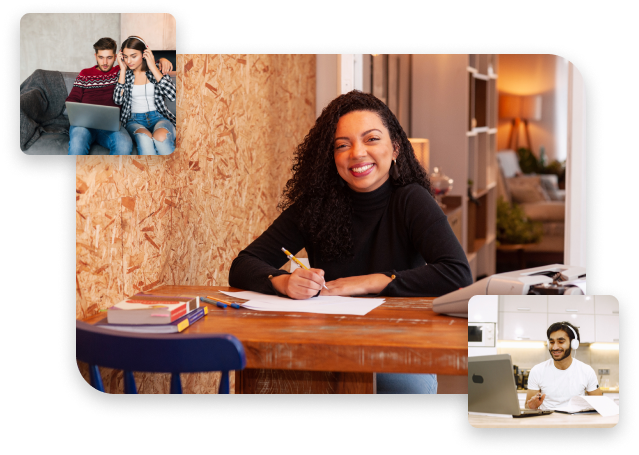
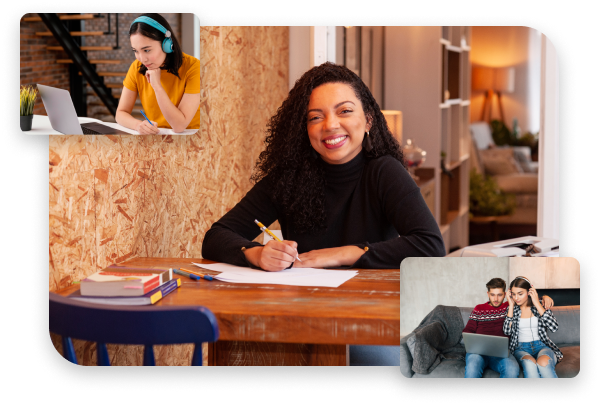
versão apresentação

diff --git a/css/main.min.css b/css/main.min.css
@@ -1,2 +1,2 @@
-body{font-family:'Poppins', sans-serif;background-color:#fdfdfd}.color-main{color:#EF9E48}.color-yellow-dark{color:#a56f39}.back-gray-light{background-color:#f5f5f5 !important}.mt-40{margin-top:40px}.mb-40{margin-bottom:40px}.mt-100{margin-top:100px}.font-slim{font-weight:300}.padding-custom{padding:75px 0}.icon-custom{padding:10px 15px;background-color:transparent;color:#EF9E48;border:1px #EF9E48 solid;border-radius:50px;cursor:pointer;margin-right:15px}.border-flag{border:#FCF2E8 4px solid;border-radius:100%}.back-yellow-light{background-color:#FCF2E8;border-radius:10px}.back-yellow-light-100{background-color:#FBCE82;border-radius:10px}.bg-icon{background:#FBCE82;border-radius:15px;display:inline-block;padding:20px}.bg-icon-5{background:#FBCE82;border-radius:15px;padding:5px}.text-justify{text-align:justify;text-justify:inter-word}.shadow{-webkit-box-shadow:0 0.5rem 1rem rgba(255,155,0,0.15) !important;box-shadow:0 0.5rem 1rem rgba(255,155,0,0.15) !important}.btn{border-radius:25px;padding:0.9rem 2rem}.btn-light{-webkit-transition:all .5s;transition:all .5s}.btn-light:hover{border-color:#EF9E48;background-color:#EF9E48;color:#fdfdfd}.dropdown-menu{-webkit-box-shadow:0 0.5rem 1rem rgba(255,155,0,0.15) !important;box-shadow:0 0.5rem 1rem rgba(255,155,0,0.15) !important}.show{border-radius:13px;border:none}.show a:hover{background-color:#FCF2E8;border-radius:13px}.mr-2{margin-right:0.5rem}.accordion-button{background-color:#fdfdfd}.accordion-item{margin-bottom:15px;border:none}.accordion-button:not(.collapsed){color:#fdfdfd;background-color:#8B9DB0}:root{--swiper-theme-color: #EF9E48}.swiper-container-horizontal>.swiper-pagination-bullets,.swiper-pagination-custom,.swiper-pagination-fraction{bottom:10%}.swiper-pagination-bullet-active{width:17px}.swiper-pagination-clickable{z-index:-1}.swiper-pagination{position:absolute;text-align:end;-webkit-transition:.3s opacity;transition:.3s opacity;-webkit-transform:translate3d(0, 0, 0);transform:translate3d(0, 0, 0);z-index:10}.swiper-container-horizontal>.swiper-pagination-bullets,.swiper-pagination-custom,.swiper-pagination-fraction{z-index:-2}.swiper-button-next,.swiper-container-rtl .swiper-button-prev{bottom:10%;right:auto;left:40px}.swiper-button-prev,.swiper-container-rtl .swiper-button-next{bottom:10%}.nav-tabs .nav-link:focus,.nav-tabs .nav-link:hover{border-color:none;isolation:isolate;border-bottom:#EF9E48 2px solid;-webkit-transition:.3s;transition:.3s}.nav-tabs .nav-item.show .nav-link,.nav-tabs .nav-link.active{color:#a56f39;background-color:#FBCE82;border-color:#dee2e6}.nav-tabs .nav-link:focus,.nav-tabs .nav-link:hover{color:#a56f39;border-color:none;isolation:isolate;border-bottom:#EF9E48 2px solid;-webkit-transition:.3s;transition:.3s}.nav-tabs .nav-link{background:0 0;border:1px solid transparent;border-top-left-radius:.25rem;border-top-right-radius:.25rem;background-color:#f5f5f5;border-radius:12px;-webkit-box-shadow:0px 10px 30px #eaeef6;box-shadow:0px 10px 30px #eaeef6;opacity:1;-webkit-transition:all .3s;transition:all .3s;-webkit-filter:grayscale(0%);filter:grayscale(0%);transition:all .3s;padding:11px;margin-right:12px}.nav-tabs{border-bottom:none}.nav-link{color:#151414}.focus-in-expand{-webkit-animation:focus-in-expand 0.8s cubic-bezier(0.25, 0.46, 0.45, 0.94) both;animation:focus-in-expand 0.8s cubic-bezier(0.25, 0.46, 0.45, 0.94) both}@-webkit-keyframes focus-in-expand{0%{letter-spacing:-0.5em;-webkit-filter:blur(12px);filter:blur(12px);opacity:0}100%{-webkit-filter:blur(0px);filter:blur(0px);opacity:1}}@keyframes focus-in-expand{0%{letter-spacing:-0.5em;-webkit-filter:blur(12px);filter:blur(12px);opacity:0}100%{-webkit-filter:blur(0px);filter:blur(0px);opacity:1}}.img-lupa{position:absolute;height:200px;left:37%;top:35%}.element-animation{animation:animationFrames linear 8s;animation-iteration-count:infinite;transform-origin:50% 50%;-webkit-animation:animationFrames linear 8s;-webkit-animation-iteration-count:infinite;-webkit-transform-origin:50% 50%;-moz-animation:animationFrames linear 8s;-moz-animation-iteration-count:infinite;-moz-transform-origin:50% 50%;-o-animation:animationFrames linear 8s;-o-animation-iteration-count:infinite;-o-transform-origin:50% 50%;-ms-animation:animationFrames linear 8s;-ms-animation-iteration-count:infinite;-ms-transform-origin:50% 50%}@keyframes animationFrames{0%{-webkit-transform:translate(0px, 0px);transform:translate(0px, 0px)}32%{-webkit-transform:translate(-88px, -145px);transform:translate(-88px, -145px)}69%{-webkit-transform:translate(-147px, -69px);transform:translate(-147px, -69px)}100%{-webkit-transform:translate(0px, -2px);transform:translate(0px, -2px)}}@-webkit-keyframes animationFrames{0%{-webkit-transform:translate(0px, 0px)}32%{-webkit-transform:translate(-88px, -145px)}69%{-webkit-transform:translate(-147px, -69px)}100%{-webkit-transform:translate(0px, -2px)}}.square{position:absolute;max-width:70%;width:100%;height:100vh;left:0px;top:0px;background:linear-gradient(106.43deg, #FFDC6B -1.4%, #FFF4CB 100.87%);border-radius:0 0 55px 0;z-index:-1}.s-hero{padding:90px 0px 0px 0px}.s-hero .img-hero{width:90%;padding:37px}.s-hero h1{width:100%;max-width:501px;font-family:Poppins;font-weight:bold;font-size:55px;line-height:100%;margin:0}.s-hero h1 span{font-weight:700;-webkit-text-stroke-width:1px;-webkit-text-stroke-color:#000;font-size:1.2em;color:transparent}.s-hero p{width:100%;font-size:1.1rem}.s-hero h2{position:relative;left:0;display:-webkit-box;display:-ms-flexbox;display:flex;-webkit-box-align:center;-ms-flex-align:center;align-items:center;-webkit-box-pack:end;-ms-flex-pack:end;justify-content:flex-end}.s-hero h2 span{font-weight:700;-webkit-text-stroke-width:1px;-webkit-text-stroke-color:#000;font-size:1.5em;color:transparent}.s-hero i{padding:10px 15px;background-color:#f9c271;border-radius:10px;margin-right:15px}.text-outline{position:relative;left:0;display:-webkit-box;display:-ms-flexbox;display:flex;-webkit-box-align:center;-ms-flex-align:center;align-items:center;-webkit-box-pack:end;-ms-flex-pack:end;justify-content:flex-end;font-weight:700;-webkit-text-stroke-width:1.2px;-webkit-text-stroke-color:#151414;font-size:3.5rem;color:transparent;opacity:0.07;line-height:60px;margin-top:-66px;display:flex;align-items:center;-webkit-box-pack:center;-ms-flex-pack:center;justify-content:center}.img-chat{position:absolute;height:200px;position:absolute;height:200px;left:37%;top:10%}.s-about{padding:100px 0}.s-about h5,.s-about h2{color:#EF9E48}.s-about h4{margin-bottom:60px}.s-about img{width:70px;margin-top:-50px}.s-about a{text-decoration:none;color:#EF9E48;-webkit-transition:all .3s;transition:all .3s}.s-about a:hover{color:#8B9DB0}.card{height:225px;background:#f5f5f5;border:1px solid #EDEEF0;-webkit-box-sizing:border-box;box-sizing:border-box;border-radius:25px;-webkit-transition:all .3s;transition:all .3s}.card:hover{background:linear-gradient(142deg, #FFDC6B -1.4%, #FFF4CB 100.87%);color:#a56f39;-webkit-transform:scale(1.08);transform:scale(1.08)}.s-who-am-i{background-color:#8B9DB0;z-index:-1;padding:100px 0;border-radius:20px;margin:12px}.s-who-am-i h2{color:#fdfdfd}.s-who-am-i p{max-width:800px;width:100%;margin:0 auto;line-height:1.4375rem;color:#fdfdfd}.s-who-am-i a{color:#FFDC6B;text-decoration:none}.s-who-am-i a:hover{color:#a56f39}.s-values{padding:100px 0}.s-values i{color:#EF9E48;border:1px solid #EF9E48;font-weight:700;-webkit-transition:all .5s;transition:all .5s}.s-values i:hover{background-color:#EF9E48;color:#FCF2E8;-webkit-transform:scale(1.5);transform:scale(1.5)}.s-values a{text-decoration:none;color:#151414}.s-values .icon-custom{background-color:transparent}.s-values p{margin-bottom:0}.s-values p span strong{color:#EF9E48;font-size:26px}.s-values img{margin-top:5px}.s-values .card-price{height:672px}.card-price{background-color:#fff;border-radius:10px;padding:15px;border:1px solid #EDEEF0}.s-values-pattern{margin-top:-25px !important;position:absolute;width:163px;left:30px}.s-faq{padding:100px 0;background-color:#f5f5f5}.s-news{padding:40px 0 79px}.s-news button{height:44px;border-radius:0 25px 25px 0 !important;background-color:#FFDC6B;border:none}.s-news input{border-radius:25px 0px 0px 25px;height:44px}.s-news .row{width:80%;margin:auto;background-color:#f5f5f5;background:linear-gradient(142deg, #FFDC6B -1.4%, #FFF4CB 100.87%);padding:20px;border-radius:10px}.s-news-img{z-index:-2;margin-top:-54px;position:absolute;width:163px;right:30px}footer{background-color:#151414;padding:3.9rem 0 2rem 0}footer i,footer h3{color:#fdfdfd}footer p{max-width:350px;color:#8B9DB0}footer ul{padding:0}footer ul li{list-style-type:none;padding:5px 0}footer a{color:#8B9DB0;text-decoration:none;-webkit-transition:all .3s;transition:all .3s}footer a:hover{color:#FBCE82}footer main{border-bottom:1px solid rgba(255,255,255,0.2);padding-bottom:2.2rem}.s-espanhol{padding:70px 0}.s-espanhol a{text-decoration:none;color:#151414}.s-espanhol b{color:#EF9E48}.s-espanhol i{font-size:25px;-webkit-transition:all .5s;transition:all .5s}.s-espanhol i:hover{background-color:#EF9E48;color:#fdfdfd}.s-espanhol h1{color:#EF9E48;font-size:3rem}.s-espanhol h1 span{font-weight:700;-webkit-text-stroke-width:1px;-webkit-text-stroke-color:#EF9E48;color:transparent;line-height:60px}.s-espanhol h6{color:#EF9E48;font-size:4.5rem}.s-espanhol h6 span{font-weight:700;-webkit-text-stroke-width:1.2px;-webkit-text-stroke-color:#151414;font-size:1.1em;color:transparent;opacity:0.1;line-height:60px;margin-top:-88px;display:-webkit-box;display:-ms-flexbox;display:flex;-webkit-box-align:center;-ms-flex-align:center;align-items:center;-webkit-box-pack:center;-ms-flex-pack:center;justify-content:center}.s-espanhol h3 span,.s-espanhol h2 span{font-weight:700;font-size:1.2em;color:#EF9E48;line-height:60px;margin:0}.s-espanhol .square{position:absolute;max-width:100%;background:-webkit-gradient(linear, left top, left bottom, from(#FFDC6B), to(#fdfdfd));background:linear-gradient(180deg, #FFDC6B 0%, #fdfdfd 100%);width:100%;height:100vh;left:0px;top:0px}.s-espanhol .card-price{width:50%;margin:0 auto}header{background-color:transparent;z-index:2;position:fixed;top:0;-webkit-transition:all .5s;transition:all .5s}.navbar{padding-top:1.5rem;padding-bottom:1.5rem;-webkit-transform:all 1s;transform:all 1s}.navbar .navbar-nav .nav-link{color:#151414}.navbar .navbar-nav .nav-link:hover{color:#EF9E48}.navbar .navbar-nav .nav-link:focus{color:#EF9E48}nav ul{list-style:none;text-align:center}nav ul li{display:inline-block;margin:0 15px}nav ul li a{-webkit-transition:all .5s;transition:all .5s}nav ul li a:hover{color:#555}.btn-invite{background-color:transparent;border:1px solid #EF9E48;color:#EF9E48;border-radius:25px;-webkit-transition:all .5s;transition:all .5s}.btn-invite:hover{-webkit-transform:scale(1.05);transform:scale(1.05);background-color:#EF9E48}.btn-invite a{color:#EF9E48;font-weight:500}.btn-invite a:hover{color:#fdfdfd}.hamburguer{margin-bottom:5px;width:30px;height:2px;background:#EF9E48;position:absolute;top:50%;left:50%;-webkit-transform:translate(-50%, -50%);transform:translate(-50%, -50%);-webkit-transition:.5s;transition:.5s}.hamburguer:before{content:'';position:absolute;width:30px;height:2px;background:#EF9E48;-webkit-box-shadow:0 2px 5px 0,0,0,0.2;box-shadow:0 2px 5px 0,0,0,0.2;-webkit-transition:.5s;transition:.5s;left:0}.hamburguer{margin-bottom:5px;width:30px;height:2px;background:#EF9E48;position:absolute;top:50%;left:50%;-webkit-transform:translate(-50%, -50%);transform:translate(-50%, -50%);-webkit-transition:.5s;transition:.5s}.hamburguer:after{content:'';position:absolute;width:30px;height:2px;background:#EF9E48;-webkit-box-shadow:0 2px 5px 0,0,0,0.2;box-shadow:0 2px 5px 0,0,0,0.2;-webkit-transition:.5s;transition:.5s;left:0;top:8px}.hamburguer:before{top:-8px}.icon{position:absolute;-webkit-transform:translate(-50%, -50%);transform:translate(-50%, -50%);width:47px;height:34px;border:none;cursor:pointer}.icon.active .hamburguer{background:rgba(0,0,0,0)}.icon.active .hamburguer:before{top:0;-webkit-transform:rotate(45deg);transform:rotate(45deg)}.icon.active .hamburguer:after{top:0;-webkit-transform:rotate(135deg);transform:rotate(135deg)}.sticky{background-color:rgba(255,255,255,0.63) !important;-webkit-backdrop-filter:blur(20px);backdrop-filter:blur(20px);-webkit-box-shadow:0 0.125rem 0.25rem rgba(0,0,0,0.075) !important;box-shadow:0 0.125rem 0.25rem rgba(0,0,0,0.075) !important;-webkit-transition:all 1s;transition:all 1s;z-index:50;padding-top:0.75rem;padding-bottom:0.75rem}@media (max-width: 1200px){.img-chat{top:3%;left:28%}}@media (max-width: 991px){.img-chat{display:none}.carousel-indicators{bottom:-55px}.carousel-control-next,.carousel-control-prev{bottom:-45px}.square{height:620px}}@media (max-width: 700px){.img-chat{display:none}.s-hero h1{font-size:2.25rem;text-align:center}.s-hero p{margin-top:20px}.center-mobile{text-align:center}.carousel-indicators{bottom:-7px}.carousel-control-next,.carousel-control-prev{bottom:10px}.default-header{background-color:rgba(255,255,255,0.63) !important;-webkit-backdrop-filter:blur(20px);backdrop-filter:blur(20px);-webkit-transition:all 1s;transition:all 1s}.s-espanhol h1{color:#EF9E48;font-size:3rem !important}.s-espanhol .card-price{width:90%;margin:0 auto}.card{margin-bottom:40px}.swiper-container-horizontal>.swiper-pagination-bullets,.swiper-pagination-custom,.swiper-pagination-fraction{top:0 !important}.swiper-button-next,.swiper-container-rtl .swiper-button-prev{top:15px;right:auto;left:40px}.swiper-button-prev,.swiper-container-rtl .swiper-button-next{top:15px}.swiper-container{padding-top:40px}footer p{max-width:100%}.s-news .row{width:100% !important}}@media (max-width: 480px){.navbar{padding-top:1rem;padding-bottom:1rem}.btn{width:80%}.square{max-width:100%}.border-flag{margin-top:20px}.s-hero{padding:100px 0px 0px 0px}.s-hero h1 span{font-size:1em;color:transparent}.s-hero .img-hero{padding:0}.s-hero .img-mb{width:50% !important}.s-espanhol .square{max-width:100%}.s-espanhol h6{color:#EF9E48;font-size:3.5rem}.s-espanhol h6 span{margin-top:-112px}.nav-tabs .nav-link{margin-right:5px}.padding-custom{padding:0}.s-values{padding:85px 0 80px 0}.s-about{padding:40px 0}.s-who-am-i{padding:70px 0}.s-faq{padding:70px 0}.formacao{-webkit-box-orient:vertical;-webkit-box-direction:normal;-ms-flex-direction:column;flex-direction:column;-webkit-box-pack:center;-ms-flex-pack:center;justify-content:center;-webkit-box-align:center;-ms-flex-align:center;align-items:center}}.s-manu{padding:52px 0}.s-manu .rounded-circle{border:5px #ffcb7f solid}.s-manu b,.s-manu strong{color:#EF9E48}.s-manu h1{font-family:'Style Script', cursive}.s-manu h6{color:#464545;margin:0;margin-left:0.5rem}.s-manu i{border:1px solid #b3b3b3;padding:8px 11px;border-radius:35px;-webkit-transition:all .3s;transition:all .3s}.s-manu i:hover{background-color:#F2F2F4;cursor:pointer;-webkit-transform:scale(1.1);transform:scale(1.1)}.s-manu .swiper-slide h6{margin:0;margin-bottom:15px}.s-manu .square{position:absolute;max-width:100%;width:100%;height:77vh;left:0px;top:0px;background:-webkit-gradient(linear, left top, left bottom, from(#FFDC6B), to(#fdfdfd));background:linear-gradient(180deg, #FFDC6B 0%, #fdfdfd 100%);border-radius:0 0 40px 40px;z-index:-1}.main-header{top:0px;position:absolute;background-image:url(../img/Hero-BG.svg);z-index:-1;width:100%;height:90vh}.position-flag-spain{position:absolute;position:absolute;margin-left:-49px;margin-top:141px}.position-flag-brazil{position:absolute;z-index:1;margin-left:7px}.p-10{padding-bottom:20px !important}.s-formacao{padding:70px 0;background-color:#F2F2F4}.s-formacao .swiper-container-horizontal>.swiper-pagination-bullets,.s-formacao .swiper-pagination-custom,.s-formacao .swiper-pagination-fraction{bottom:-5px}.s-formacao .card-manu{position:relative;height:310px;background-color:#FFFFFF;border-radius:12px;z-index:2;margin-right:20px;overflow:auto}.s-formacao .card-manu h4{color:#EF9E48}.s-formacao .card-manu img{background-color:#F2F2F4;padding:5px;border-radius:5px;margin-bottom:10px}.s-formacao .card-manu p,.s-formacao .card-manu li{color:#777777}
+body{font-family:'Poppins', sans-serif;background-color:#fdfdfd}.loader{position:fixed;left:0px;top:0px;width:100%;height:100%;z-index:9999;background:url("http://i.imgur.com/zAD2y29.gif") 50% 50% no-repeat white}.color-main{color:#EF9E48}.color-yellow-dark{color:#a56f39}.back-gray-light{background-color:#f5f5f5 !important}.mt-40{margin-top:40px}.mb-40{margin-bottom:40px}.mt-100{margin-top:100px}.font-slim{font-weight:300}.padding-custom{padding:75px 0}.icon-custom{padding:10px 15px;background-color:transparent;color:#EF9E48;border:1px #EF9E48 solid;border-radius:50px;cursor:pointer;margin-right:15px}.border-flag{border:rgba(252,242,232,0.4) 4px solid;border-radius:100%}.back-yellow-light{background-color:#FCF2E8;border-radius:10px}.back-yellow-light-100{background-color:#FBCE82;border-radius:10px}.bg-icon{background:#FBCE82;border-radius:15px;display:inline-block;padding:20px}.bg-icon-5{background:#FBCE82;border-radius:15px;padding:5px}.text-justify{text-align:justify;text-justify:inter-word}.shadow{-webkit-box-shadow:0 0.5rem 1rem rgba(255,155,0,0.15) !important;box-shadow:0 0.5rem 1rem rgba(255,155,0,0.15) !important}.btn{border-radius:25px;padding:0.9rem 2rem}.btn-light{-webkit-transition:all .5s;transition:all .5s}.btn-light:hover{border-color:#EF9E48;background-color:#EF9E48;color:#fdfdfd}.dropdown-menu{-webkit-box-shadow:0 0.5rem 1rem rgba(255,155,0,0.15) !important;box-shadow:0 0.5rem 1rem rgba(255,155,0,0.15) !important}.show{border-radius:13px;border:none}.show a:hover{background-color:#FCF2E8;border-radius:13px}.mr-2{margin-right:0.5rem}.accordion-button{background-color:#fdfdfd}.accordion-item{margin-bottom:15px;border:none}.accordion-button:not(.collapsed){color:#fdfdfd;background-color:#8B9DB0}:root{--swiper-theme-color: #EF9E48}.swiper-container-horizontal>.swiper-pagination-bullets,.swiper-pagination-custom,.swiper-pagination-fraction{bottom:10%}.swiper-pagination-bullet-active{width:17px}.swiper-pagination-clickable{z-index:-1}.swiper-pagination{position:absolute;text-align:end;-webkit-transition:.3s opacity;transition:.3s opacity;-webkit-transform:translate3d(0, 0, 0);transform:translate3d(0, 0, 0);z-index:10}.swiper-container-horizontal>.swiper-pagination-bullets,.swiper-pagination-custom,.swiper-pagination-fraction{z-index:-2}.swiper-button-next,.swiper-container-rtl .swiper-button-prev{bottom:10%;right:auto;left:40px}.swiper-button-prev,.swiper-container-rtl .swiper-button-next{bottom:10%}.nav-tabs .nav-link:focus,.nav-tabs .nav-link:hover{border-color:none;isolation:isolate;border-bottom:#EF9E48 2px solid;-webkit-transition:.3s;transition:.3s}.nav-tabs .nav-item.show .nav-link,.nav-tabs .nav-link.active{color:#a56f39;background-color:#FBCE82;border-color:#dee2e6}.nav-tabs .nav-link:focus,.nav-tabs .nav-link:hover{color:#a56f39;border-color:none;isolation:isolate;border-bottom:#EF9E48 2px solid;-webkit-transition:.3s;transition:.3s}.nav-tabs .nav-link{background:0 0;border:1px solid transparent;border-top-left-radius:.25rem;border-top-right-radius:.25rem;background-color:#f5f5f5;border-radius:12px;-webkit-box-shadow:0px 10px 30px #eaeef6;box-shadow:0px 10px 30px #eaeef6;opacity:1;-webkit-transition:all .3s;transition:all .3s;-webkit-filter:grayscale(0%);filter:grayscale(0%);transition:all .3s;padding:11px;margin-right:12px}.nav-tabs{border-bottom:none}.nav-link{color:#151414}.focus-in-expand{-webkit-animation:focus-in-expand 0.8s cubic-bezier(0.25, 0.46, 0.45, 0.94) both;animation:focus-in-expand 0.8s cubic-bezier(0.25, 0.46, 0.45, 0.94) both}@-webkit-keyframes focus-in-expand{0%{letter-spacing:-0.5em;-webkit-filter:blur(12px);filter:blur(12px);opacity:0}100%{-webkit-filter:blur(0px);filter:blur(0px);opacity:1}}@keyframes focus-in-expand{0%{letter-spacing:-0.5em;-webkit-filter:blur(12px);filter:blur(12px);opacity:0}100%{-webkit-filter:blur(0px);filter:blur(0px);opacity:1}}.img-lupa{position:absolute}.element-animation{animation:animationFrames linear 8s;animation-iteration-count:infinite;transform-origin:50% 50%;-webkit-animation:animationFrames linear 8s;-webkit-animation-iteration-count:infinite;-webkit-transform-origin:50% 50%;-moz-animation:animationFrames linear 8s;-moz-animation-iteration-count:infinite;-moz-transform-origin:50% 50%;-o-animation:animationFrames linear 8s;-o-animation-iteration-count:infinite;-o-transform-origin:50% 50%;-ms-animation:animationFrames linear 8s;-ms-animation-iteration-count:infinite;-ms-transform-origin:50% 50%}@keyframes animationFrames{0%{-webkit-transform:translate(0px, 0px);transform:translate(0px, 0px)}32%{-webkit-transform:translate(-88px, -145px);transform:translate(-88px, -145px)}69%{-webkit-transform:translate(-147px, -69px);transform:translate(-147px, -69px)}100%{-webkit-transform:translate(0px, -2px);transform:translate(0px, -2px)}}@-webkit-keyframes animationFrames{0%{-webkit-transform:translate(0px, 0px)}32%{-webkit-transform:translate(-88px, -145px)}69%{-webkit-transform:translate(-147px, -69px)}100%{-webkit-transform:translate(0px, -2px)}}.square{position:absolute;max-width:70%;width:100%;height:100vh;left:0px;top:0px;background:linear-gradient(106.43deg, #FFDC6B -1.4%, #FFF4CB 100.87%);border-radius:0 0 55px 0;z-index:-1}.s-hero{padding:90px 0px 0px 0px}.s-hero .img-hero{width:90%;padding:37px}.s-hero h1{width:100%;max-width:501px;font-family:Poppins;font-weight:bold;font-size:55px;line-height:100%;margin:0}.s-hero h1 span{font-weight:700;-webkit-text-stroke-width:1px;-webkit-text-stroke-color:#000;font-size:1.2em;color:transparent}.s-hero p{width:100%;font-size:1.1rem}.s-hero h2{position:relative;left:0;display:-webkit-box;display:-ms-flexbox;display:flex;-webkit-box-align:center;-ms-flex-align:center;align-items:center;-webkit-box-pack:end;-ms-flex-pack:end;justify-content:flex-end}.s-hero h2 span{font-weight:700;-webkit-text-stroke-width:1px;-webkit-text-stroke-color:#000;font-size:1.5em;color:transparent}.s-hero i{padding:10px 15px;background-color:#f9c271;border-radius:10px;margin-right:15px}.text-outline{position:relative;left:0;display:-webkit-box;display:-ms-flexbox;display:flex;-webkit-box-align:center;-ms-flex-align:center;align-items:center;-webkit-box-pack:end;-ms-flex-pack:end;justify-content:flex-end;font-weight:700;-webkit-text-stroke-width:1.2px;-webkit-text-stroke-color:#151414;font-size:3.5rem;color:transparent;opacity:0.07;line-height:60px;margin-top:-66px;display:flex;align-items:center;-webkit-box-pack:center;-ms-flex-pack:center;justify-content:center}.img-chat{position:absolute;height:200px;position:absolute;height:200px;left:37%;top:10%}.s-about{padding:100px 0}.s-about h5,.s-about h2{color:#EF9E48}.s-about h4{margin-bottom:60px}.s-about img{width:70px;margin-top:-50px}.s-about a{text-decoration:none;color:#EF9E48;-webkit-transition:all .3s;transition:all .3s}.s-about a:hover{color:#8B9DB0}.card{height:225px;background:#f5f5f5;border:1px solid #EDEEF0;-webkit-box-sizing:border-box;box-sizing:border-box;border-radius:25px;-webkit-transition:all .3s;transition:all .3s}.card:hover{background:linear-gradient(142deg, #FFDC6B -1.4%, #FFF4CB 100.87%);color:#a56f39;-webkit-transform:scale(1.08);transform:scale(1.08)}.s-who-am-i{background-color:#8B9DB0;z-index:-1;padding:100px 0;border-radius:20px;margin:12px}.s-who-am-i h2{color:#fdfdfd}.s-who-am-i p{max-width:800px;width:100%;margin:0 auto;line-height:1.4375rem;color:#fdfdfd}.s-who-am-i a{color:#FFDC6B;text-decoration:none}.s-who-am-i a:hover{color:#a56f39}.s-values{padding:100px 0}.s-values i{color:#EF9E48;border:1px solid #EF9E48;font-weight:700;-webkit-transition:all .5s;transition:all .5s}.s-values i:hover{background-color:#EF9E48;color:#FCF2E8;-webkit-transform:scale(1.5);transform:scale(1.5)}.s-values a{text-decoration:none;color:#151414}.s-values .icon-custom{background-color:transparent}.s-values p{margin-bottom:0}.s-values p span strong{color:#EF9E48;font-size:26px}.s-values img{margin-top:5px}.s-values .card-price{height:672px}.card-price{background-color:#fff;border-radius:10px;padding:15px;border:1px solid #EDEEF0}.s-values-pattern{margin-top:-25px !important;position:absolute;width:163px;left:30px}.s-faq{padding:100px 0;background-color:#f5f5f5}.s-news{padding:40px 0 79px}.s-news button{height:44px;border-radius:0 25px 25px 0 !important;background-color:#FFDC6B;border:none}.s-news input{border-radius:25px 0px 0px 25px;height:44px}.s-news .row{width:80%;margin:auto;background-color:#f5f5f5;background:linear-gradient(142deg, #FFDC6B -1.4%, #FFF4CB 100.87%);padding:20px;border-radius:10px}.s-news-img{z-index:-2;margin-top:-54px;position:absolute;width:163px;right:30px}footer{background-color:#151414;padding:3.9rem 0 2rem 0}footer i,footer h3{color:#fdfdfd}footer p{max-width:350px;color:#8B9DB0}footer ul{padding:0}footer ul li{list-style-type:none;padding:5px 0}footer a{color:#8B9DB0;text-decoration:none;-webkit-transition:all .3s;transition:all .3s}footer a:hover{color:#FBCE82}footer main{border-bottom:1px solid rgba(255,255,255,0.2);padding-bottom:2.2rem}.s-espanhol{padding:70px 0}.s-espanhol a{text-decoration:none;color:#151414}.s-espanhol b{color:#EF9E48}.s-espanhol i{font-size:25px;-webkit-transition:all .5s;transition:all .5s}.s-espanhol i:hover{background-color:#EF9E48;color:#fdfdfd}.s-espanhol h1{color:#EF9E48;font-size:3rem}.s-espanhol h1 span{font-weight:700;-webkit-text-stroke-width:1px;-webkit-text-stroke-color:#EF9E48;color:transparent;line-height:60px}.s-espanhol h6{color:#EF9E48;font-size:4.5rem}.s-espanhol h6 span{font-weight:700;-webkit-text-stroke-width:1.2px;-webkit-text-stroke-color:#151414;font-size:1.1em;color:transparent;opacity:0.1;line-height:60px;margin-top:-88px;display:-webkit-box;display:-ms-flexbox;display:flex;-webkit-box-align:center;-ms-flex-align:center;align-items:center;-webkit-box-pack:center;-ms-flex-pack:center;justify-content:center}.s-espanhol h3 span,.s-espanhol h2 span{font-weight:700;font-size:1.2em;color:#EF9E48;line-height:60px;margin:0}.s-espanhol .square{position:absolute;max-width:100%;background:-webkit-gradient(linear, left top, left bottom, from(#FFDC6B), to(#fdfdfd));background:linear-gradient(180deg, #FFDC6B 0%, #fdfdfd 100%);width:100%;height:100vh;left:0px;top:0px}.s-espanhol .card-price{width:50%;margin:0 auto}header{background-color:transparent;z-index:2;position:fixed;top:0;-webkit-transition:all .5s;transition:all .5s}.navbar{padding-top:1.5rem;padding-bottom:1.5rem;-webkit-transform:all 1s;transform:all 1s}.navbar .navbar-nav .nav-link{color:#151414}.navbar .navbar-nav .nav-link:hover{color:#EF9E48}.navbar .navbar-nav .nav-link:focus{color:#EF9E48}nav ul{list-style:none;text-align:center}nav ul li{display:inline-block;margin:0 15px}nav ul li a{-webkit-transition:all .5s;transition:all .5s}nav ul li a:hover{color:#555}.btn-invite{background-color:transparent;border:1px solid #EF9E48;color:#EF9E48;border-radius:25px;-webkit-transition:all .5s;transition:all .5s}.btn-invite:hover{-webkit-transform:scale(1.05);transform:scale(1.05);background-color:#EF9E48}.btn-invite a{color:#EF9E48;font-weight:500}.btn-invite a:hover{color:#fdfdfd}.hamburguer{margin-bottom:5px;width:30px;height:2px;background:#EF9E48;position:absolute;top:50%;left:50%;-webkit-transform:translate(-50%, -50%);transform:translate(-50%, -50%);-webkit-transition:.5s;transition:.5s}.hamburguer:before{content:'';position:absolute;width:30px;height:2px;background:#EF9E48;-webkit-box-shadow:0 2px 5px 0,0,0,0.2;box-shadow:0 2px 5px 0,0,0,0.2;-webkit-transition:.5s;transition:.5s;left:0}.hamburguer{margin-bottom:5px;width:30px;height:2px;background:#EF9E48;position:absolute;top:50%;left:50%;-webkit-transform:translate(-50%, -50%);transform:translate(-50%, -50%);-webkit-transition:.5s;transition:.5s}.hamburguer:after{content:'';position:absolute;width:30px;height:2px;background:#EF9E48;-webkit-box-shadow:0 2px 5px 0,0,0,0.2;box-shadow:0 2px 5px 0,0,0,0.2;-webkit-transition:.5s;transition:.5s;left:0;top:8px}.hamburguer:before{top:-8px}.icon{position:absolute;-webkit-transform:translate(-50%, -50%);transform:translate(-50%, -50%);width:47px;height:34px;border:none;cursor:pointer}.icon.active .hamburguer{background:rgba(0,0,0,0)}.icon.active .hamburguer:before{top:0;-webkit-transform:rotate(45deg);transform:rotate(45deg)}.icon.active .hamburguer:after{top:0;-webkit-transform:rotate(135deg);transform:rotate(135deg)}.sticky{background-color:rgba(255,255,255,0.63) !important;-webkit-backdrop-filter:blur(20px);backdrop-filter:blur(20px);-webkit-box-shadow:0 0.125rem 0.25rem rgba(0,0,0,0.075) !important;box-shadow:0 0.125rem 0.25rem rgba(0,0,0,0.075) !important;-webkit-transition:all 1s;transition:all 1s;z-index:50;padding-top:0.75rem;padding-bottom:0.75rem}@media (max-width: 1200px){.img-chat{top:3%;left:28%}}@media (max-width: 991px){.img-chat{display:none}.carousel-indicators{bottom:-55px}.carousel-control-next,.carousel-control-prev{bottom:-45px}.square{height:620px}}@media (max-width: 700px){.img-chat{display:none}.s-hero h1{font-size:2.25rem;text-align:center}.s-hero p{margin-top:20px}.center-mobile{text-align:center}.carousel-indicators{bottom:-7px}.carousel-control-next,.carousel-control-prev{bottom:10px}.default-header{background-color:rgba(255,255,255,0.63) !important;-webkit-backdrop-filter:blur(20px);backdrop-filter:blur(20px);-webkit-transition:all 1s;transition:all 1s}.s-espanhol h1{color:#EF9E48;font-size:3rem !important}.s-espanhol .card-price{width:90%;margin:0 auto}.card{margin-bottom:40px}.swiper-container-horizontal>.swiper-pagination-bullets,.swiper-pagination-custom,.swiper-pagination-fraction{top:0 !important}.swiper-button-next,.swiper-container-rtl .swiper-button-prev{top:15px;right:auto;left:40px}.swiper-button-prev,.swiper-container-rtl .swiper-button-next{top:15px}.swiper-container{padding-top:40px}footer p{max-width:100%}.s-news .row{width:100% !important}}@media (max-width: 480px){.navbar{padding-top:1rem;padding-bottom:1rem}.btn{width:80%}.square{max-width:100%}.border-flag{margin-top:20px}.s-hero{padding:100px 0px 0px 0px}.s-hero h1 span{font-size:1em;color:transparent}.s-hero .img-hero{padding:0}.s-hero .img-mb{width:50% !important}.s-espanhol .square{max-width:100%}.s-espanhol h6{color:#EF9E48;font-size:3.5rem}.s-espanhol h6 span{margin-top:-112px}.nav-tabs .nav-link{margin-right:5px}.padding-custom{padding:0}.s-values{padding:85px 0 80px 0}.s-about{padding:40px 0}.s-who-am-i{padding:70px 0}.s-faq{padding:70px 0}.formacao{-webkit-box-orient:vertical;-webkit-box-direction:normal;-ms-flex-direction:column;flex-direction:column;-webkit-box-pack:center;-ms-flex-pack:center;justify-content:center;-webkit-box-align:center;-ms-flex-align:center;align-items:center}}.s-manu{padding:52px 0}.s-manu .rounded-circle{border:5px #ffcb7f solid}.s-manu b,.s-manu strong{color:#EF9E48}.s-manu h1{font-family:'Style Script', cursive}.s-manu h6{color:#464545;margin:0;margin-left:0.5rem}.s-manu i{border:1px solid #b3b3b3;padding:8px 11px;border-radius:35px;-webkit-transition:all .3s;transition:all .3s}.s-manu i:hover{background-color:#F2F2F4;cursor:pointer;-webkit-transform:scale(1.1);transform:scale(1.1)}.s-manu .swiper-slide h6{margin:0;margin-bottom:15px}.s-manu .square{position:absolute;max-width:100%;width:100%;height:77vh;left:0px;top:0px;background:-webkit-gradient(linear, left top, left bottom, from(#FFDC6B), to(#fdfdfd));background:linear-gradient(180deg, #FFDC6B 0%, #fdfdfd 100%);border-radius:0 0 40px 40px;z-index:-1}.main-header{top:0px;position:absolute;background-image:url(../img/Hero-BG.svg);z-index:-1;width:100%;height:90vh}.position-flag-spain{position:absolute;position:absolute;margin-left:-49px;margin-top:141px}.position-flag-brazil{position:absolute;z-index:1;margin-left:7px}.p-10{padding-bottom:20px !important}.s-formacao{padding:70px 0;background-color:#F2F2F4}.s-formacao .swiper-container-horizontal>.swiper-pagination-bullets,.s-formacao .swiper-pagination-custom,.s-formacao .swiper-pagination-fraction{bottom:-5px}.s-formacao .card-manu{position:relative;height:310px;background-color:#FFFFFF;border-radius:12px;z-index:2;margin-right:20px;overflow:auto}.s-formacao .card-manu h4{color:#EF9E48}.s-formacao .card-manu img{background-color:#F2F2F4;padding:5px;border-radius:5px;margin-bottom:10px}.s-formacao .card-manu p,.s-formacao .card-manu li{color:#777777}
 /*# sourceMappingURL=main.min.css.map */

diff --git a/revisoes.html b/revisoes.html
@@ -139,20 +139,14 @@
         <div class="row justify-content-around">
           <div class="col-md-6 p-4" data-aos="fade-up" data-aos-duration="1500">
             <img src="./img/stars.svg" alt="5 estrelas" />
-            <h5 class="mt-2">Aulas 100% on-line</h5>
-            <img
-              class="lazyload img-fluid mt-40"
-              data-src="./img/banner-revisao.png"
-              alt="uma imagem com a manoela "
-            />
-            <!-- <div class="text-center" data-aos="fade-up" data-aos-duration="100">
+            <h5 class="mt-2">Revisões e traduções</h5>
+            <div class="text-center">
               <img
-                class="lazyload img-lupa element-animation lazy-load"
-                data-src="./img/lupa.svg"
-                alt="lupa"
-                width="150px"
+                class="lazyload img-fluid mt-40"
+                data-src="./img/banner-revisao.png"
+                alt="uma imagem com a Manoela "
               />
-            </div> -->
+            </div>
           </div>
 
           <div
@@ -365,6 +359,14 @@
           <h6>
             <strong><span>Como funciona?</span> </strong>
           </h6>
+          <div class="text-center" data-aos="fade-up" data-aos-duration="100">
+            <img
+              class="lazyload img-lupa element-animation lazy-load"
+              data-src="./img/lupa.svg"
+              alt="lupa"
+              width="150px"
+            />
+          </div>
           <div
             class="col-md-6 p-4 mt-4"
             data-aos="fade-down"

diff --git a/index.html b/index.html
@@ -60,6 +60,17 @@
     </script>
   </head>
   <body>
+    <!-- <div id="preloader">
+      <div class="inner">
+
+        <div class="bolas">
+          <div></div>
+          <div></div>
+          <div></div>
+        </div>
+      </div>
+    </div> -->
+    <!-- fim do preloader -->
     <header class="container-fluid" id="#sticker">
       <nav class="navbar navbar-expand-md navbar-dark fixed-top default-header">
         <div class="container">
@@ -203,7 +214,7 @@
                   /> -->
                   <img
                     class="lazyload mt-4 img-fluid img-hero"
-                    data-src="img/img-hero.png"
+                    data-src="img/img-hero.webp"
                     alt="Imagem hero"
                     height="auto"
                     data-aos="fade-up"
@@ -383,7 +394,7 @@
               <div class="text-center">
                 <img
                   class="bg-icon shadow"
-                  src="img/icon-lupa-white.svg"
+                  src="img/icon-search.svg"
                   alt="icone lupa"
                 />
               </div>
@@ -1179,5 +1190,12 @@
     <script src="https://unpkg.com/swiper/swiper-bundle.min.js"></script>
     <script src="https://unpkg.com/aos@next/dist/aos.js"></script>
     <script src="js/main.js"></script>
+    <!-- <script>
+      $(window).on("load", function () {
+        $("#preloader .inner").fadeOut();
+        $("#preloader").delay(350).fadeOut("slow");
+        $("body").delay(350).css({ overflow: "visible" });
+      });
+    </script> -->
   </body>
 </html>

diff --git a/manu.html b/manu.html
@@ -145,16 +145,15 @@
           <div class="col-md-5">
             <div class="text-center">
               <img
-                class="lazyload rounded-circle"
-                data-src="./img/avatar.webp"
+                class="rounded-circle lazyload img-fluid"
+                data-src="./img/avatar.png"
                 alt="imagem avatara Manoela"
-                width="200px"
+                width="300px"
+                data-aos="fade-down"
+                data-aos-duration="1500"
               />
-              <h1 class="mt-40 focus-in-expand">Manoela M. Muniz</h1>
-              <p class="text-center">
-                Professora | Tradutora | Revisora | Designer Instrucional
-              </p>
-              <div class="">
+              <h1 class="mt-4 focus-in-expand text-center">Manoela M. Muniz</h1>
+              <div class="text-center mt-4">
                 <a
                   href="https://api.whatsapp.com/send?l=pt_BR&amp;phone=5511964617712"
                   class="mb-4"
@@ -170,7 +169,9 @@
               </div>
             </div>
           </div>
-          <div class="col-md-7">
+          <div class="col-md-7 mt-4">
+            <h5>Professora | Tradutora | Revisora | Designer Instrucional</h5>
+
             <p class="mt-4">
               Como professora de português, produção e interpretação de texto já
               lecionei para alunos(as) do cursinho pré-universitário Primeira

diff --git a/scss/_custom.scss b/scss/_custom.scss
@@ -2,6 +2,15 @@ body{
     font-family: 'Poppins', sans-serif;
     background-color: $white;
 }
+.loader {
+	position: fixed;
+	left: 0px;
+	top: 0px;
+	width: 100%;
+	height: 100%;
+	z-index: 9999;
+	background: url('http://i.imgur.com/zAD2y29.gif') 50% 50% no-repeat white;
+}
 
 .color-main{
     color: $main-color;
@@ -37,7 +46,7 @@ body{
     margin-right: 15px;
 }
 .border-flag{
-    border: $color-yellow-light 4px solid;
+    border: rgba(252, 242, 232, .4) 4px solid;
     border-radius: 100%;
 }
 
@@ -239,11 +248,7 @@ body{
   }
   
   .img-lupa{
-        position: absolute;
-        height: 200px;
-        left: 37%;
-        top: 35%;
-        
+        position: absolute;    
   }
   .element-animation{
     animation: animationFrames linear 8s;

diff --git a/design.html b/design.html
@@ -144,8 +144,8 @@
               educacional
             </h5>
             <img
-              class="lazyload img-fluid mt-40"
-              data-src="./img/banner-design.svg"
+              class="lazyload img-fluid p-4"
+              data-src="./img/banner-design.png"
               alt="uma imagem com a manoela "
             />
           </div>
@@ -370,7 +370,7 @@
           <div class="col-md-6 p-4 mt-4">
             <img
               class="lazyload img-fluid"
-              data-src="./img/banner-design.svg"
+              data-src="./img/img-design2.svg"
               alt="imagem de pessoas consumindo ead"
               data-aos="fade-up"
               data-aos-duration="1500"

diff --git a/portugues.html b/portugues.html
@@ -142,8 +142,8 @@
             <h5 class="mt-2">Aulas 100% on-line</h5>
             <img
               class="lazyload img-fluid mt-4"
-              data-src="./img/banner-espanhol.webp"
-              alt="homem consumindo conteúdo on-line"
+              data-src="./img/banner-portugues.webp"
+              alt="Mulher consumindo conteúdo on-line"
             />
           </div>
 
